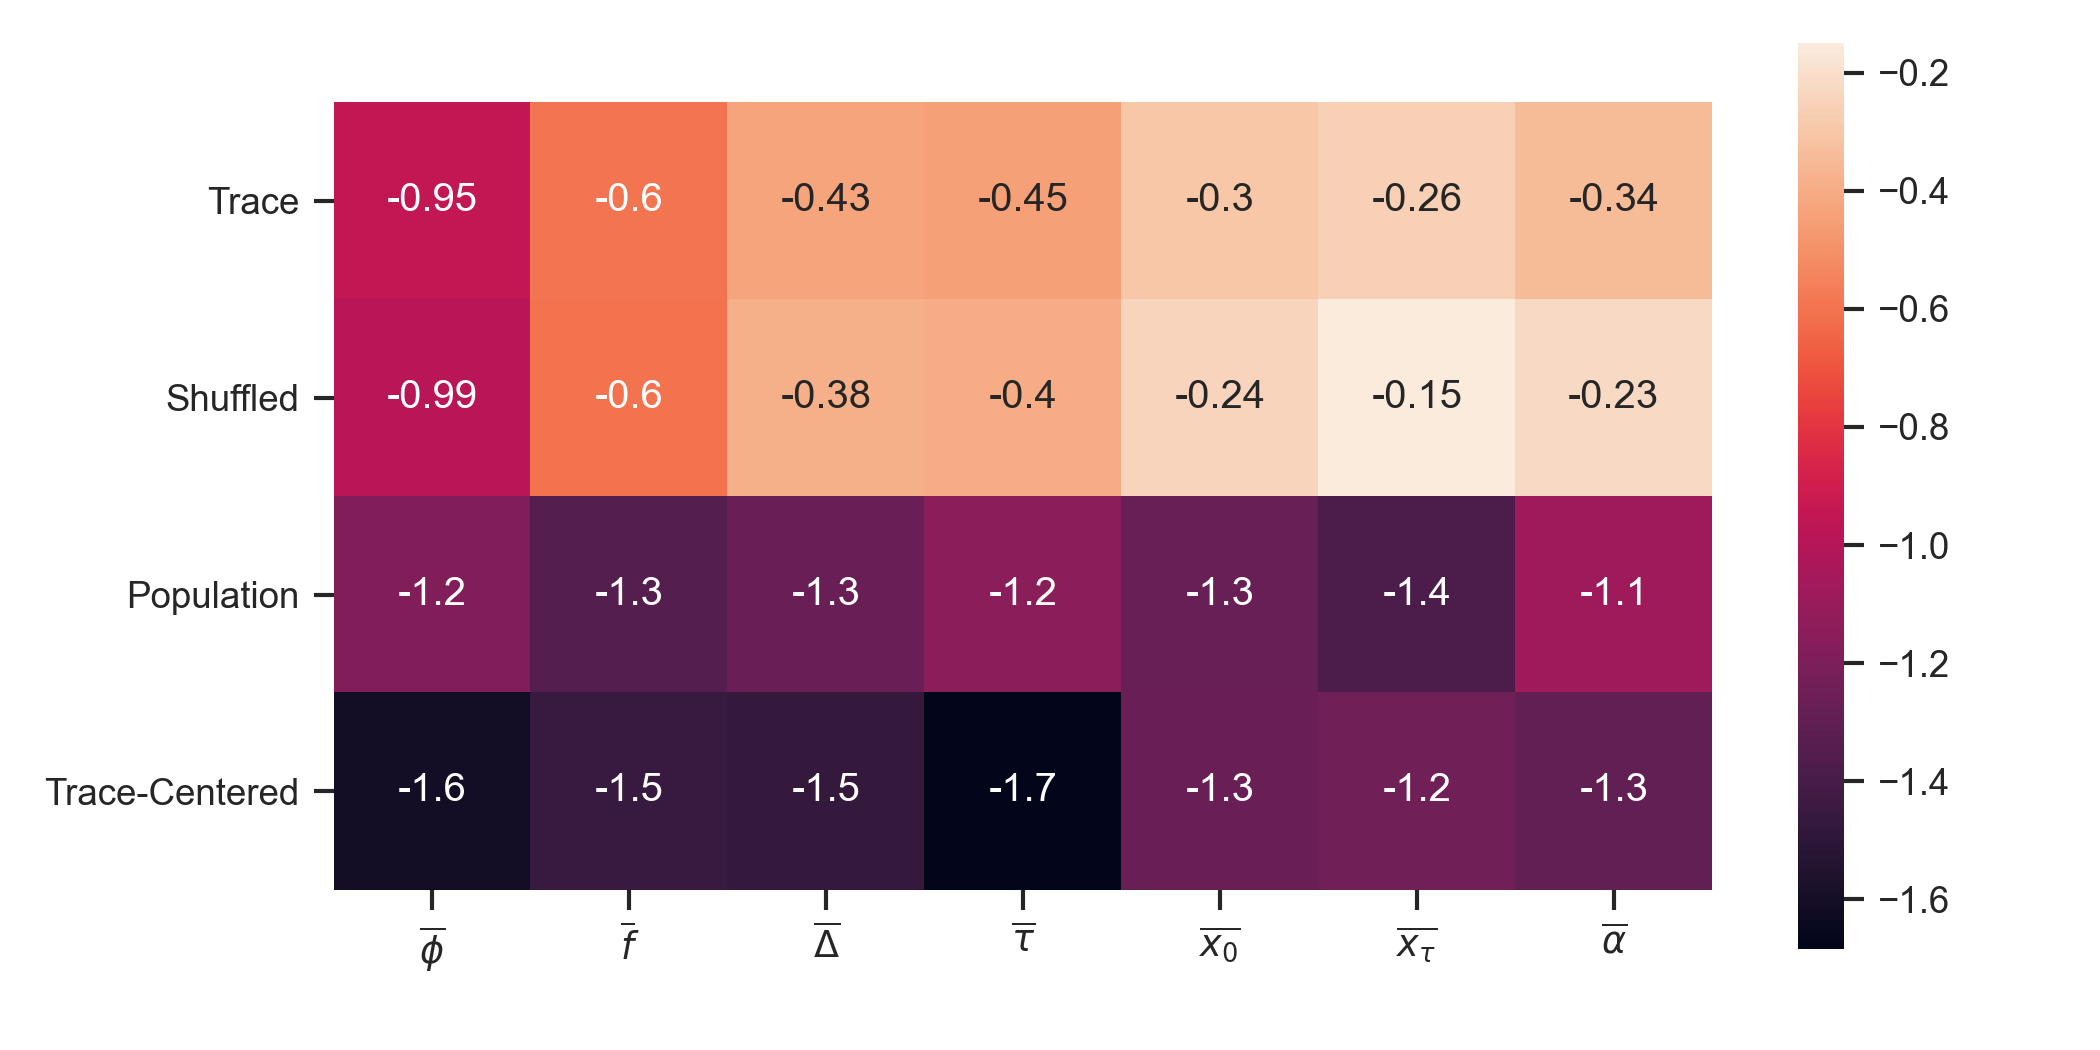
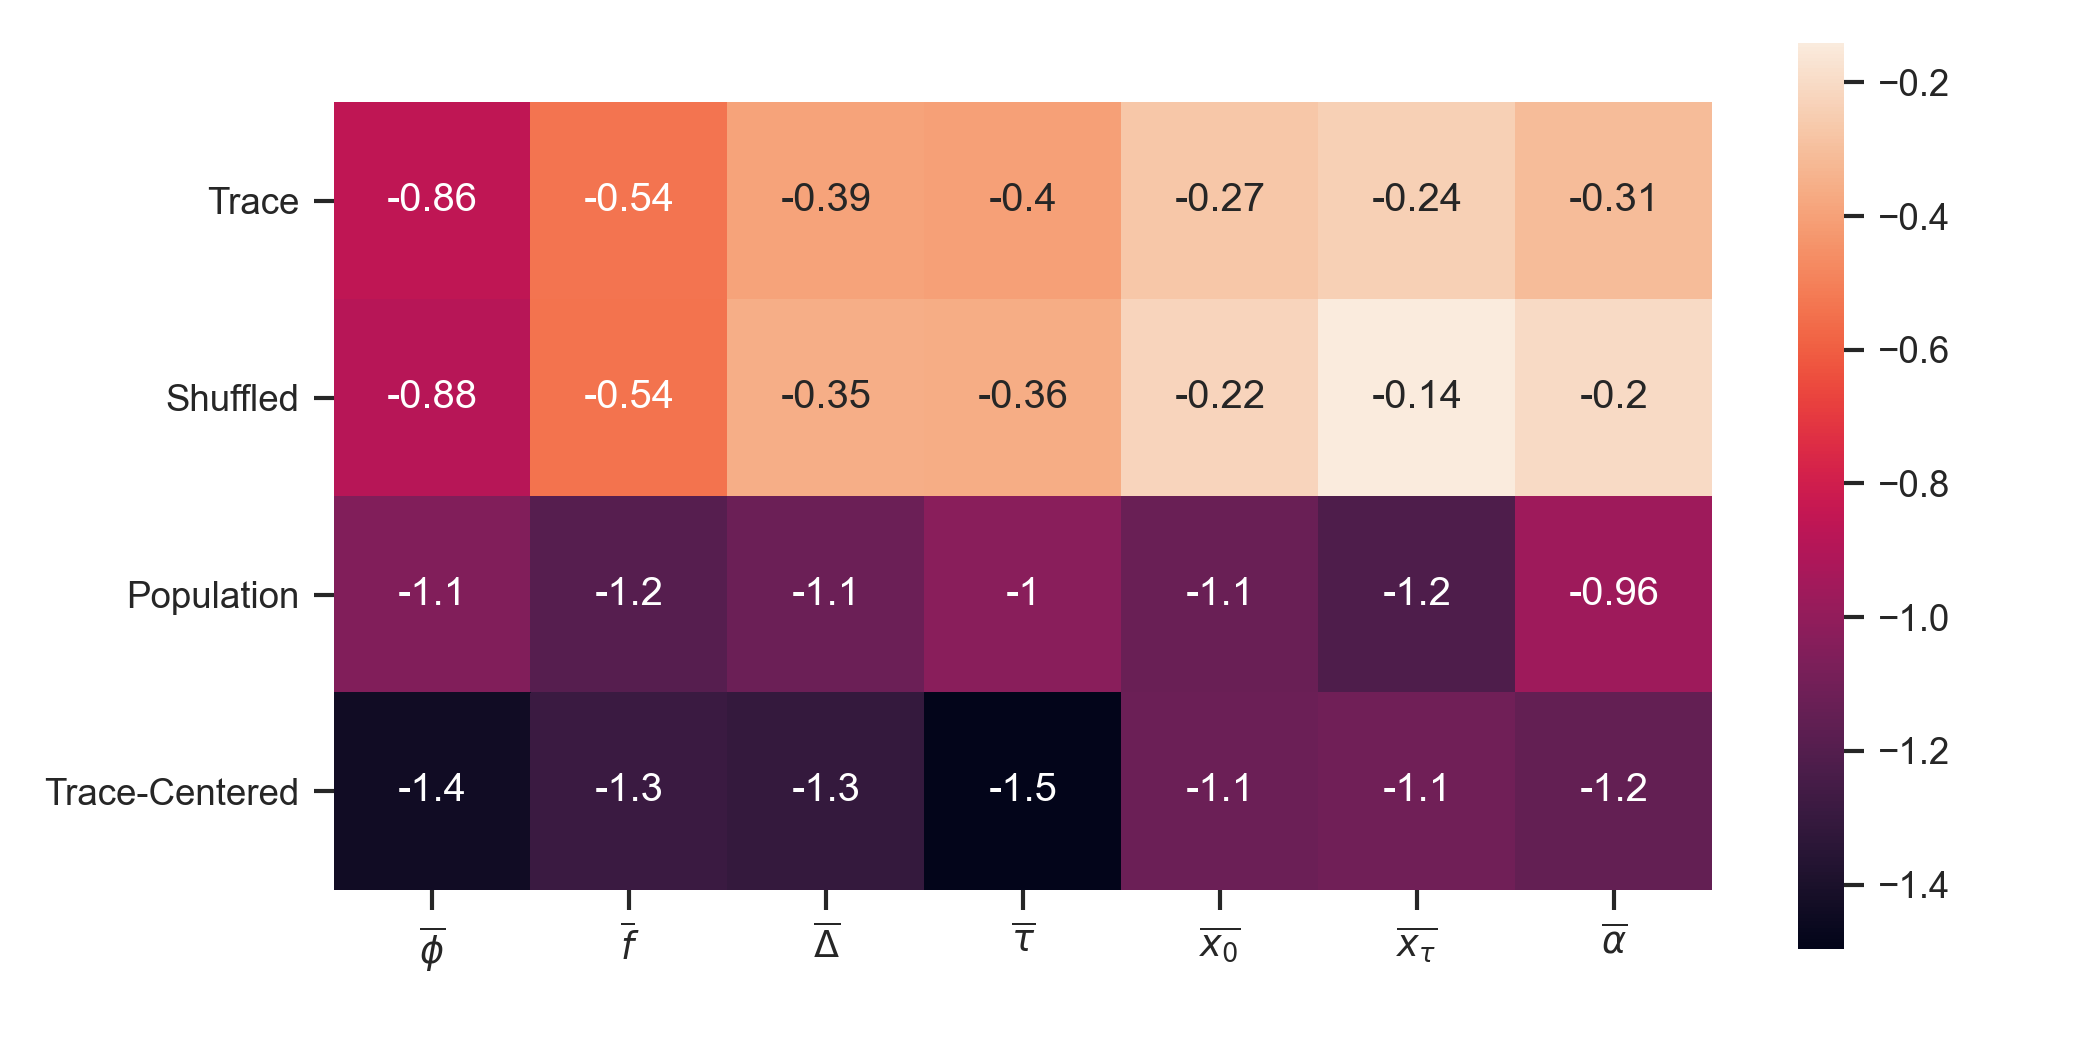
First Git

diff --git a/Plotting/figure2.py b/Plotting/figure2.py
@@ -38,7 +38,7 @@ def slope_comparisons():
             dist['var'] = dist['var'] / dist[dist['generation'] == 1]['var'].values
             
             # We get the best fit line
-            lin_reg = LinearRegression(fit_intercept=True).fit(np.array(np.log(dist['generation'] + 1)).reshape(-1, 1), np.array(np.log(dist['var'])).reshape(-1, 1))
+            lin_reg = LinearRegression(fit_intercept=True).fit(np.array(np.log(dist['generation'])).reshape(-1, 1), np.array(np.log(dist['var'])).reshape(-1, 1))
             
             # Add this regression phenotypic_variables to the dataframe
             to_add_slope.update({label: lin_reg.coef_[0]})
@@ -101,15 +101,15 @@ def variance_timeaverage_per_generation():
             dist['var'] = dist['var'] / dist[dist['generation'] == 1]['var'].values
             
             # We get the best fit line
-            lin_reg = LinearRegression(fit_intercept=True).fit(np.array(np.log(dist['generation'] + 1)).reshape(-1, 1), np.array(np.log(dist['var'])).reshape(-1, 1))
+            lin_reg = LinearRegression(fit_intercept=True).fit(np.array(np.log(dist['generation'])).reshape(-1, 1), np.array(np.log(dist['var'])).reshape(-1, 1))
             
             # plot the plots
-            ax.scatter(dist['generation'] + 1, dist['var'], marker=marker, alpha=.5)
-            ax.plot(dist['generation'] + 1, np.exp(lin_reg.predict(np.array(np.log(dist['generation'] + 1)).reshape(-1, 1)).flatten()), ls='--', label='')
+            ax.scatter(dist['generation'], dist['var'], marker=marker, alpha=.5)
+            ax.plot(dist['generation'], np.exp(lin_reg.predict(np.array(np.log(dist['generation'])).reshape(-1, 1)).flatten()), ls='--', label='')
             
-            # reg_order = PowerRegression(dist['generation'] + 1, dist['var'], bs=500)
-            # ax.scatter(dist['generation'] + 1, dist['var'], label=reg_order.param_labels['a'], marker=marker, alpha=.5)
-            # ax.plot(dist['generation'] + 1, reg_order.prediction, ls='--', label='')
+            # reg_order = PowerRegression(dist['generation'], dist['var'], bs=500)
+            # ax.scatter(dist['generation'], dist['var'], label=reg_order.param_labels['a'], marker=marker, alpha=.5)
+            # ax.plot(dist['generation'], reg_order.prediction, ls='--', label='')
 
         # Add the grid
         ax.grid(True)
@@ -129,6 +129,65 @@ def variance_timeaverage_per_generation():
     plt.savefig('{}/Figure 2.png'.format(args.figs_location), dpi=300)
     plt.close()
     
+    
+""" This creates the rest of the figures left out of fig 2 in the main text to be in the appendix """
+
+
+def variance_timeaverage_per_generation_rest_of_figures():
+    
+    # The cycle phenotypic_variables we will look at
+    highlights = ['generationtime', 'length_final', 'division_ratio', 'added_length']
+    
+    # set a style on seaborn module
+    seaborn_preamble()
+    
+    # create the figure and construct the layout of the figure
+    fig, axes = plt.subplots(nrows=2, ncols=2, sharey=True, figsize=[7, 7])
+    axes = axes.flatten()
+    
+    # looping over the phenotypic_variables in highlights and their respective axes
+    for count, param in enumerate(highlights):
+        # Specify the axis
+        ax = axes[count]
+        
+        # Plot the four different kinds of lineages
+        for label, marker in zip(['Trace', 'Population', 'Trace-Centered', 'Shuffled'], ['o', 'x', '^', '+']):
+            
+            # the variance and generations of the TAs of this type of lineage
+            dist = variation_of_cumulative_time_averages[(variation_of_cumulative_time_averages['param'] == param) & (variation_of_cumulative_time_averages['label'] == label)].sort_values('generation')
+            
+            # So each kind of lineage starts at the 1 and keeps their slope
+            dist['var'] = dist['var'] / dist[dist['generation'] == 1]['var'].values
+
+            # We get the best fit line
+            lin_reg = LinearRegression(fit_intercept=True).fit(np.array(np.log(dist['generation'])).reshape(-1, 1), np.array(np.log(dist['var'])).reshape(-1, 1))
+            
+            # plot the plots
+            ax.scatter(dist['generation'], dist['var'], marker=marker, alpha=.5)
+            ax.plot(dist['generation'], np.exp(lin_reg.predict(np.array(np.log(dist['generation'])).reshape(-1, 1)).flatten()), ls='--', label='')
+            
+            # reg_order = PowerRegression(dist['generation'], dist['var'], bs=500)
+            # ax.scatter(dist['generation'], dist['var'], label=reg_order.param_labels['a'], marker=marker, alpha=.5)
+            # ax.plot(dist['generation'], reg_order.prediction, ls='--', label='')
+
+        # Add the grid
+        ax.grid(True)
+        # ax.legend()
+        ax.set(xscale="log", yscale="log")
+        # ax.tick_params(direction='out')
+        ax.set_xlabel(r'$N$')
+        ax.set_ylabel(r'$Var(${}$)$'.format(symbols['time_averages'][param]))
+        # ax.set_ylim([low_bound, high_bound])
+        # ax.set_xlim(left=0)
+
+        ax.set_title(uppercase_letters[count], x=-.15, fontsize='xx-large')
+        
+    # Save the big figure 2.png
+    fig.tight_layout()
+    # plt.show()
+    plt.savefig('{}/Rest of Figure 2.png'.format(args.figs_location), dpi=300)
+    plt.close()
+    
 
 parser = argparse.ArgumentParser(description='Plot the dependance of the time-averages on the lineage length.')
 parser.add_argument('-d', '--data_location', metavar='', type=str, help='Where the dataframes are saved.',
@@ -145,8 +204,11 @@ create_folder(args.data_location)
 
 # import the labeled measured bacteria in physical units
 variation_of_cumulative_time_averages = pd.read_csv('{}/variation_of_cumulative_time_averages.csv'.format(args.data_location))
-    
-# phenotypic_variables, symbols, args
+
+
+variance_timeaverage_per_generation_rest_of_figures()
+
+
 variance_timeaverage_per_generation()
 
 
